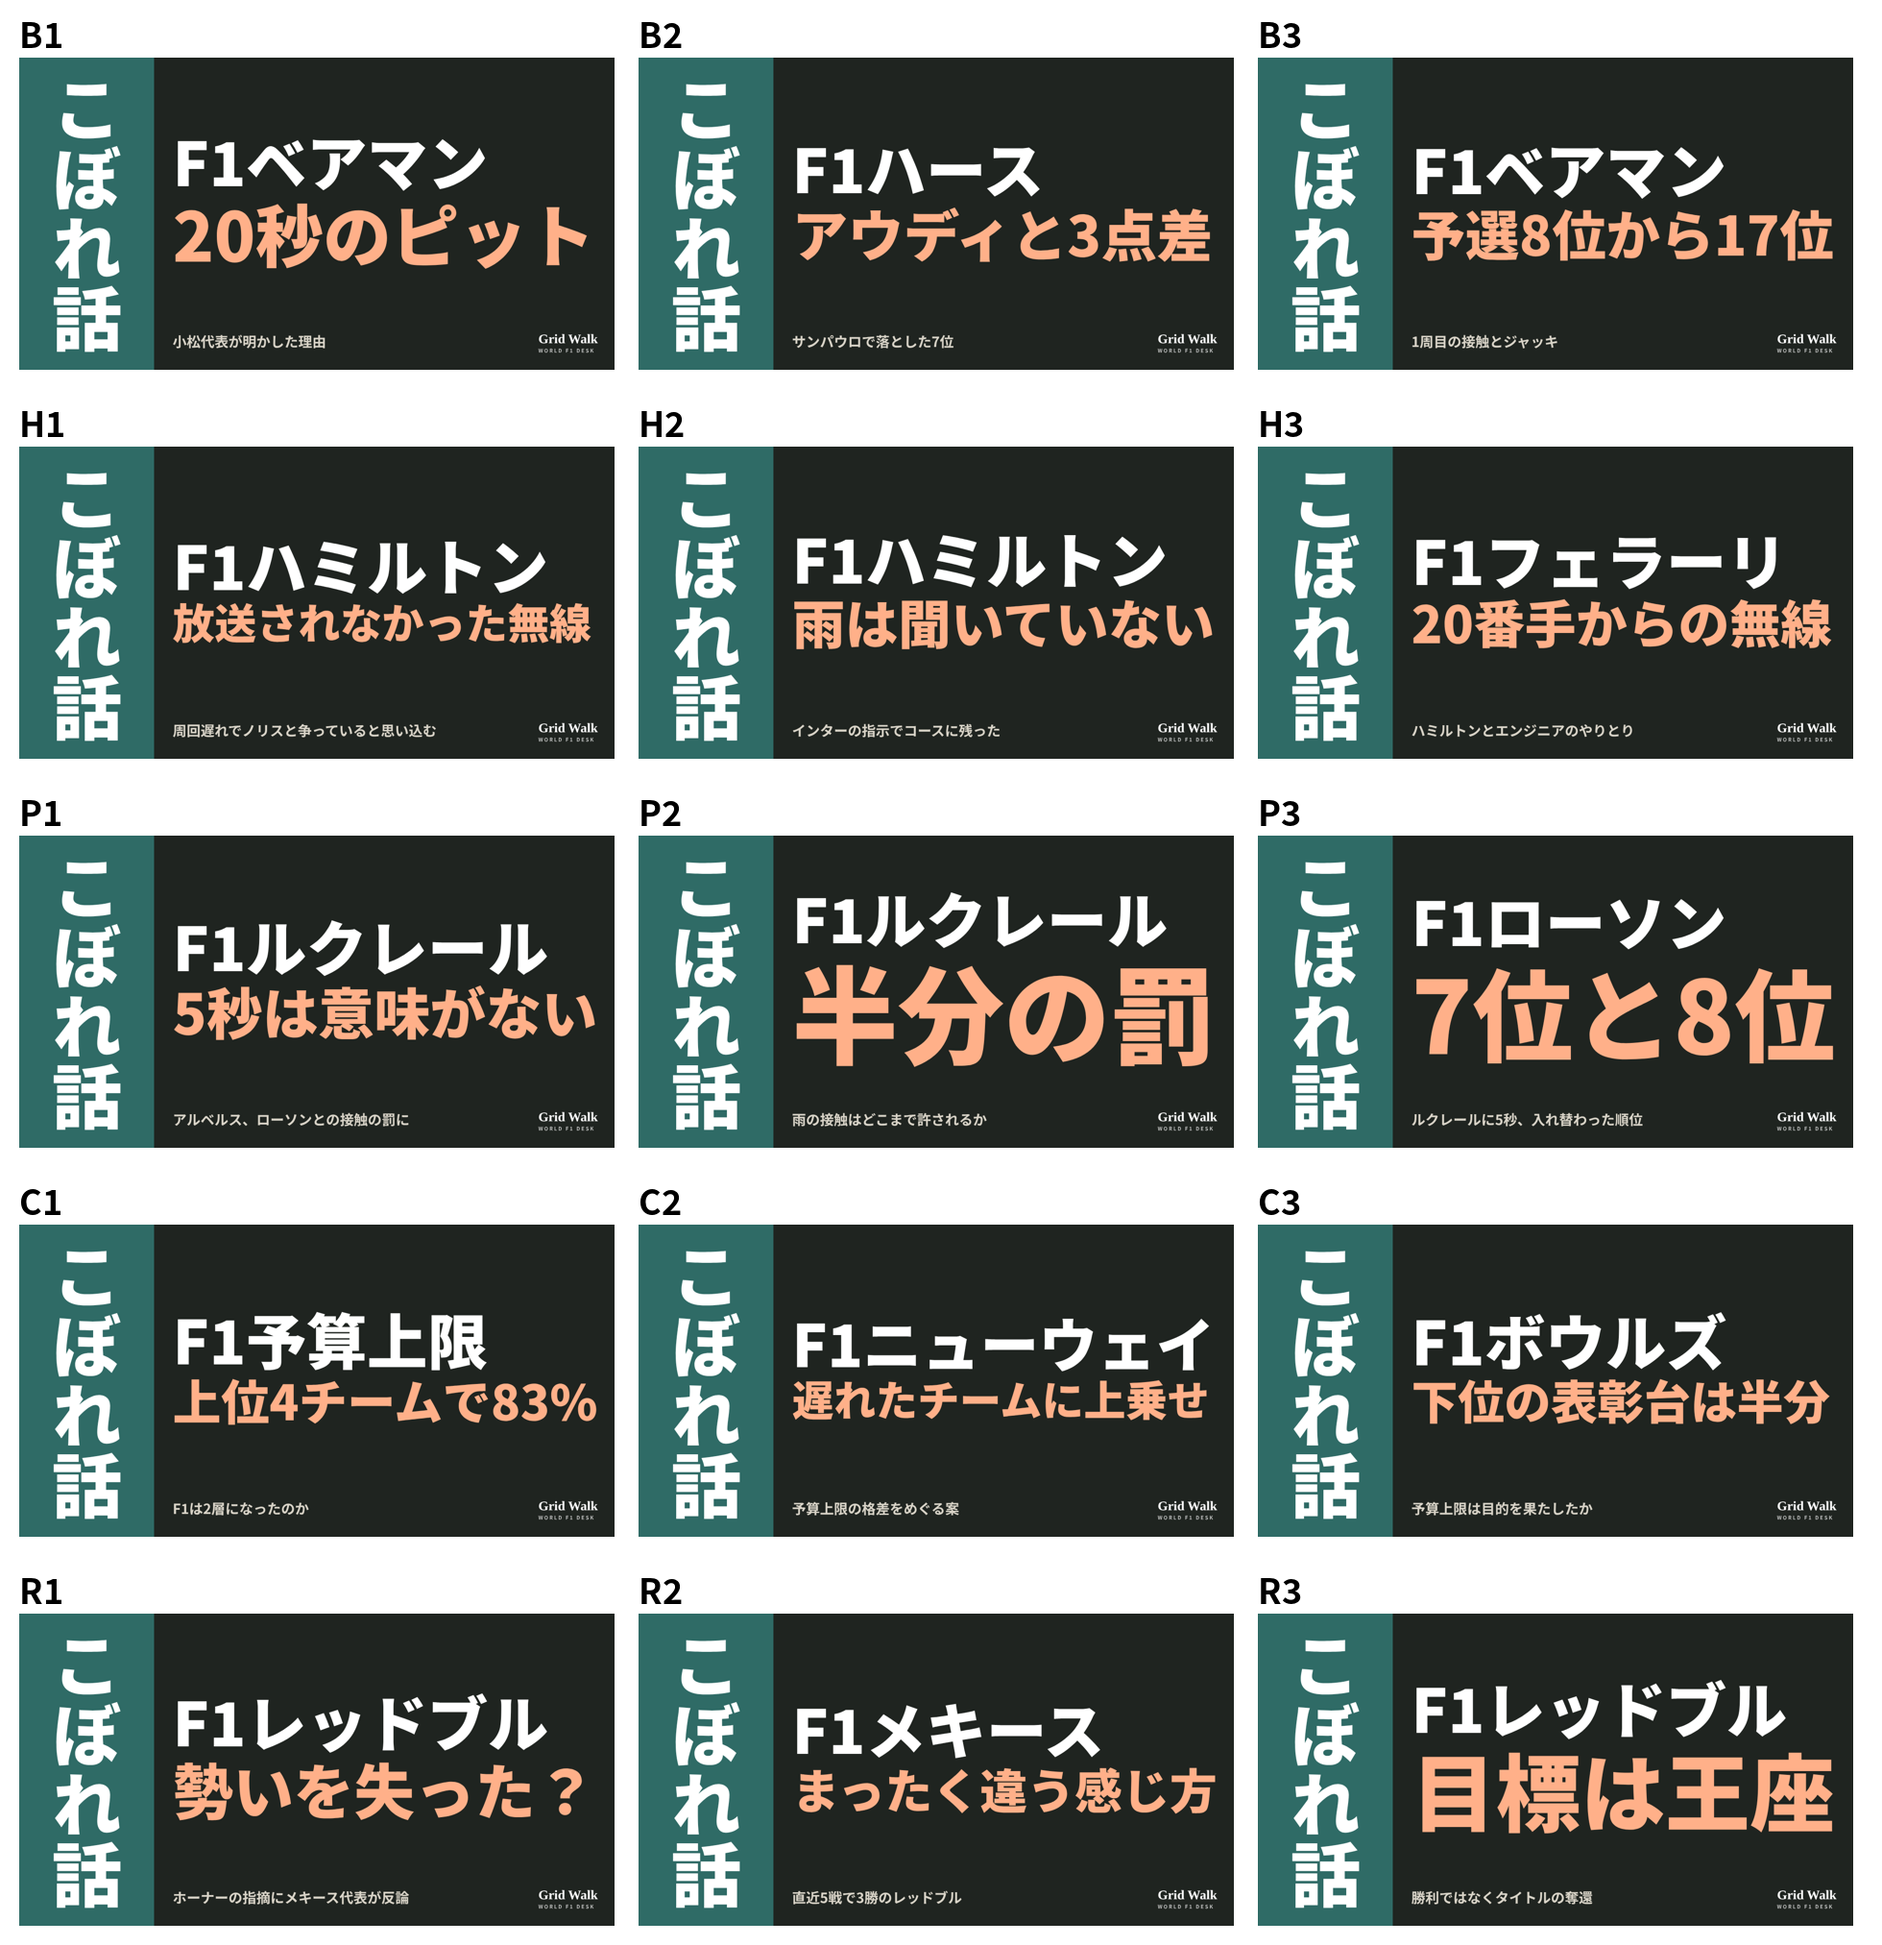
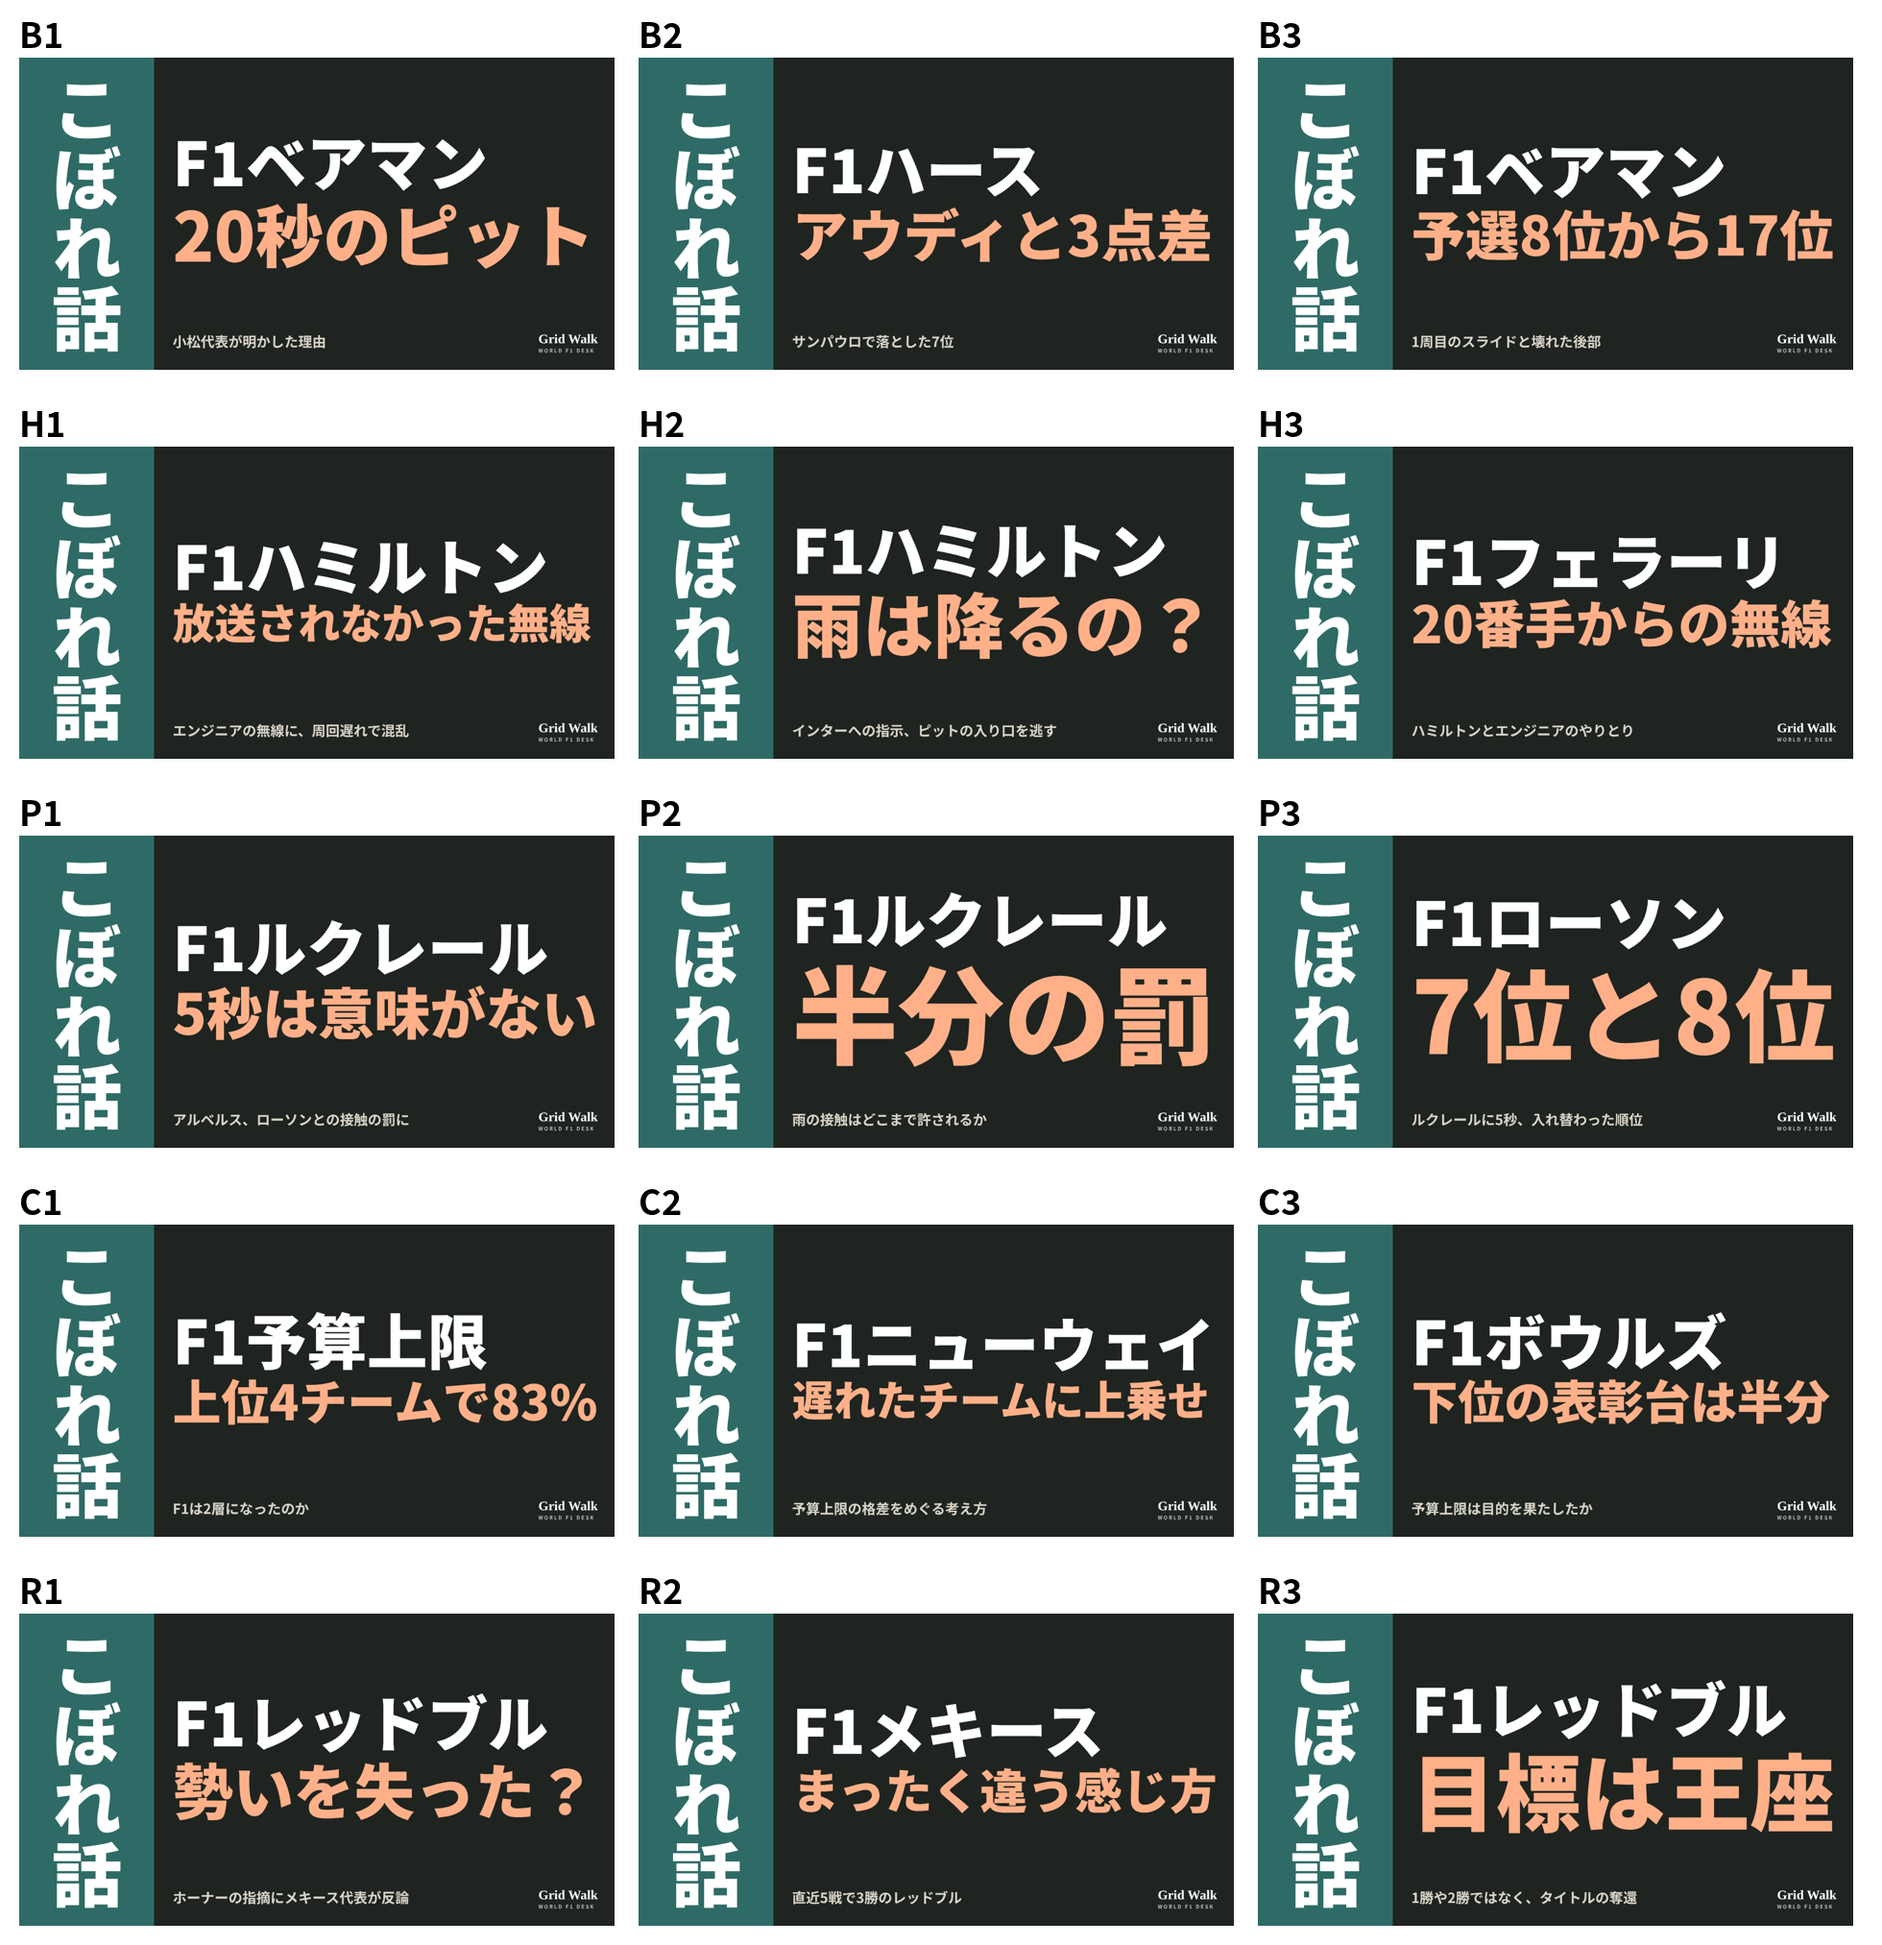
desk: 11/12の画像候補C2を差し替え
Claude-Session: https://claude.ai/code/session_01LGMvzb8B3aK7DkzCCi7qDe

diff --git a/desk/pending/1112/C2.html b/desk/pending/1112/C2.html
@@ -11,7 +11,7 @@ em{font-style:normal;color:#FFB089}
 .br{position:absolute;right:36px;bottom:34px;font:700 28px Georgia,serif}.br small{display:block;font:700 11px 'Noto Sans CJK JP';letter-spacing:.24em;opacity:.7}
 .row{display:flex;align-items:center;gap:28px;white-space:nowrap;font-weight:900}
 .row svg{flex:0 0 auto}
-</style><div class=c><div class=p><b>こぼれ話</b></div><div class=r><div class=l1>F1ニューウェイ</div><div class=l2><em>遅れたチームに上乗せ</em></div></div><div class=s>予算上限の格差をめぐる案</div><div class=br>Grid Walk<small>WORLD F1 DESK</small></div></div>
+</style><div class=c><div class=p><b>こぼれ話</b></div><div class=r><div class=l1>F1ニューウェイ</div><div class=l2><em>遅れたチームに上乗せ</em></div></div><div class=s>予算上限の格差をめぐる考え方</div><div class=br>Grid Walk<small>WORLD F1 DESK</small></div></div>
 <script>
 document.querySelectorAll('.l1,.l2,.l3,.s,.row').forEach(el=>{let f=parseFloat(getComputedStyle(el).fontSize);while(el.scrollWidth>el.clientWidth+1&&f>20){f-=2;el.style.fontSize=f+'px'}});
 const r=document.querySelector('.r');let n=0;while(r.scrollHeight>r.clientHeight+1&&n++<80){document.querySelectorAll('.l1,.l2,.l3,.row').forEach(el=>{el.style.fontSize=(parseFloat(getComputedStyle(el).fontSize)-3)+'px'})}
